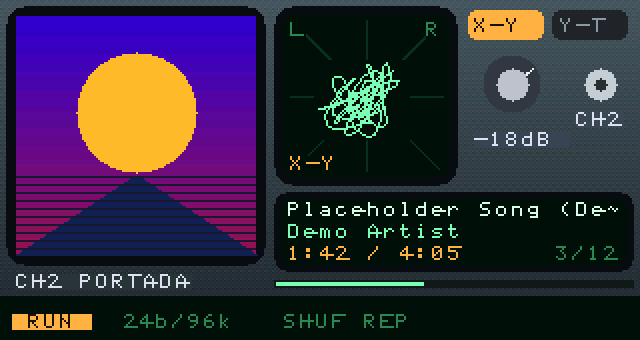
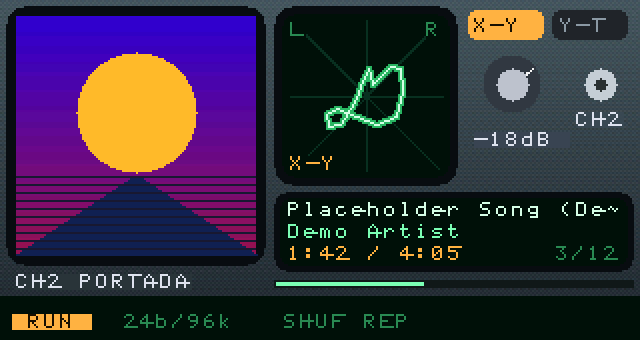
feat(themes): Oscilloscope shows the real audio (live trace + X-Y), 20 fps
Home: eased, glowing waveform with a rising-edge trigger; glow brightens with
level; amplitude follows volume. Now Playing: real L/R Lissajous. The baked
trace tiles are gone (no assets). Slow areas flush at 1 Hz (dyn_every) so the
bus carries mostly the scope window. Preview tool synthesises an audio tap.

Changed region(s): [[0.5, 0.1765, 0.6562, 0.4118], [0.5, 0.1765, 0.5312, 0.2059]]

diff --git a/tools/theme_preview/render_theme.c b/tools/theme_preview/render_theme.c
@@ -7,6 +7,7 @@
  *
  * Usage: render_theme <themes-root> <package-id> <out-dir>
  */
+#include <math.h>
 #include <stdio.h>
 #include <stdlib.h>
 #include <string.h>
@@ -101,22 +102,54 @@ static int load(const char *root, const char *id, const char *path)
     return r;
 }
 
+/* Stand-in for the device's audio tap: a few harmonics with a slow envelope
+ * (silent when not playing), so the scope/VU skins render something real. */
+static short s_wl[48], s_wr[48];
+
+static void fake_audio(theme_skin_state_t *st, unsigned t)
+{
+    int i;
+    double ph = t / 1000.0 * 6.0;
+
+    if (!st->playing) {
+        st->wave_n = 0;
+        st->lvl_l = st->lvl_r = st->peak_l = st->peak_r = 0;
+        return;
+    }
+    for (i = 0; i < 48; i++) {
+        double x = i / 48.0 * 6.28318 * 3.0;
+
+        s_wl[i] = (short)(520 * sin(x + ph) + 230 * sin(2.0 * x + 1.7 * ph));
+        s_wr[i] = (short)(480 * sin(x + ph + 0.8) + 260 * sin(3.0 * x + ph));
+    }
+    st->wave_l = s_wl;
+    st->wave_r = s_wr;
+    st->wave_n = 48;
+    st->lvl_l = 520 + (int)(180 * sin(ph * 0.7));
+    st->lvl_r = 480 + (int)(180 * sin(ph * 0.9 + 1.0));
+    st->peak_l = st->lvl_l + 150;
+    st->peak_r = st->lvl_r + 150;
+}
+
 static void shot(const char *dir, const char *name, unsigned t, unsigned idle,
                  int sel, int top, const theme_skin_state_t *st)
 {
     char path[512];
     unsigned step;
+    theme_skin_state_t ls = *st;
 
     s_art.ok = s_art_ok;
     theme_skin_set_art(&s_art);
 
     /* Warm the persistent [vars] (needle ballistics) with earlier frames. */
     for (step = (t > 3200u ? t - 3200u : 0); step < t; step += 40) {
+        fake_audio(&ls, step);
         display_clear(theme_get()->background);
-        theme_skin_render(step, idle, sel, top, st);
+        theme_skin_render(step, idle, sel, top, &ls);
     }
+    fake_audio(&ls, t);
     display_clear(theme_get()->background);
-    theme_skin_render(t, idle, sel, top, st);
+    theme_skin_render(t, idle, sel, top, &ls);
     display_flush_rows(0, DISPLAY_H - 1);
     snprintf(path, sizeof path, "%s/%s.ppm", dir, name);
     if (panel_io_sim_write_ppm(path) != 0)

diff --git a/firmware/ui/tests/test_theme_packages.c b/firmware/ui/tests/test_theme_packages.c
@@ -46,7 +46,8 @@ static void check_package(const char *id, const char *name,
     CHECK_STR_EQ(theme_get()->name, name);
     CHECK_EQ_INT(theme_layout()->home, THEME_HOME_SKIN);
     CHECK(theme_layout()->home_nav == THEME_NAV_HORIZONTAL);
-    check_asset(asset, aw, ah);
+    if (asset != 0)                  /* asset-free packages (live scope) */
+        check_asset(asset, aw, ah);
 
     for (i = 0; i < (int)(sizeof k_skins / sizeof k_skins[0]); i++)
         CHECK_EQ_INT(theme_skin_load(ROOT, id, k_skins[i]), 0);
@@ -57,7 +58,7 @@ void test_theme_packages(void)
     ui_init();
     mock_services_reset();
 
-    check_package("oscilloscope", "Oscilloscope", "w1", 64, 32);
+    check_package("oscilloscope", "Oscilloscope", 0, 0, 0);
     check_package("vu-meter", "VU Meter", "vu_a", 64, 40);
     check_package("808", "808", "ring", 32, 32);
 }
